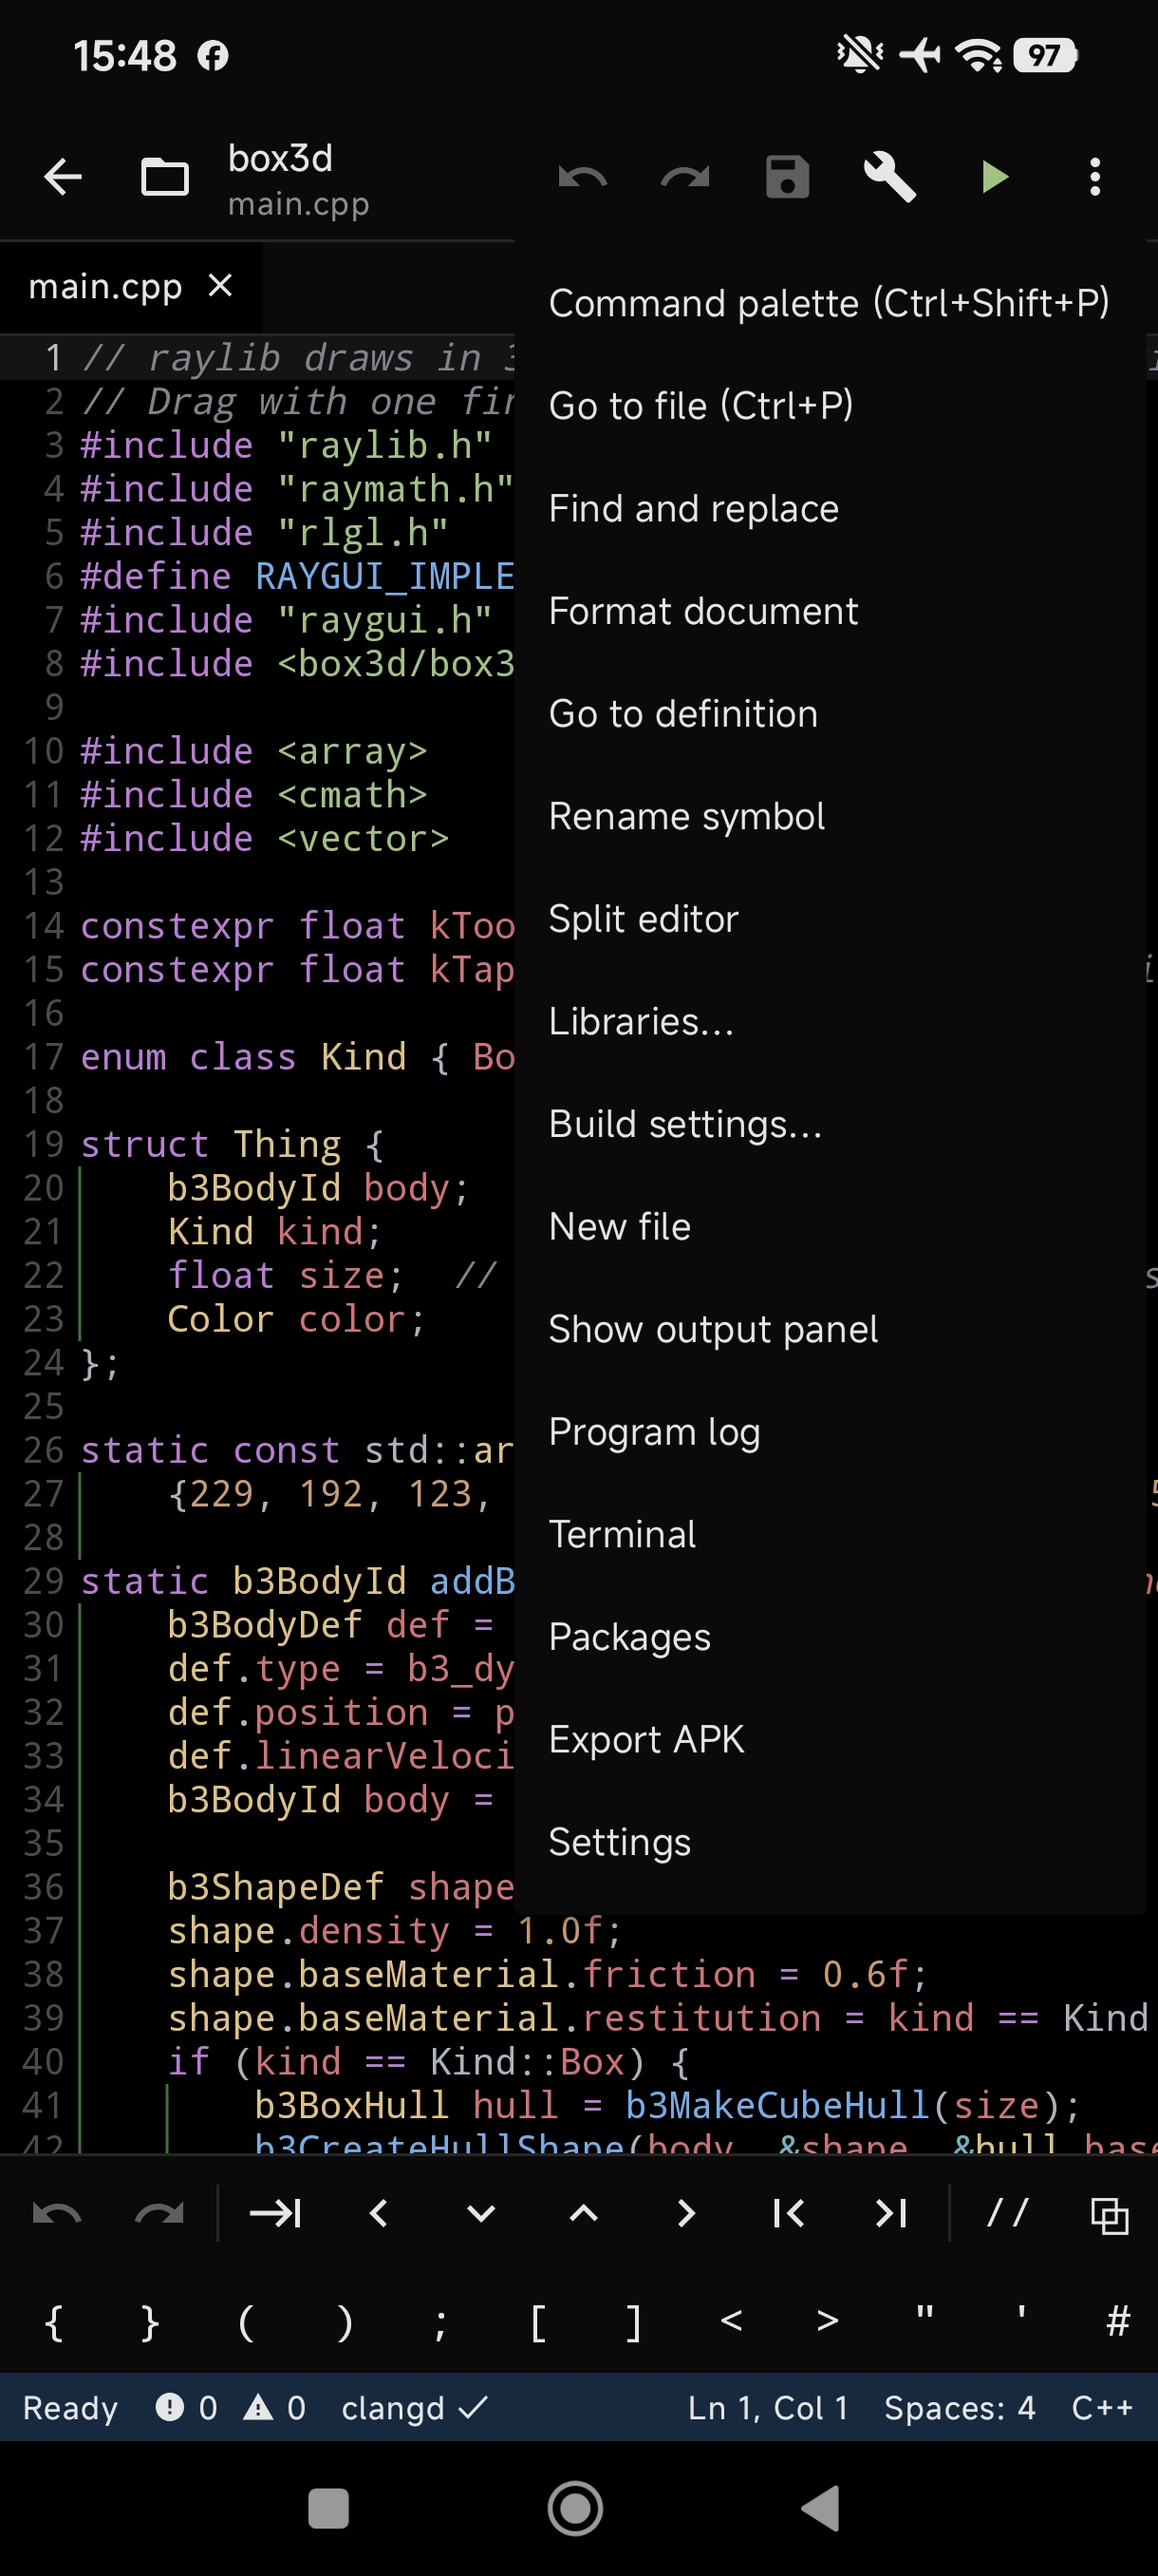
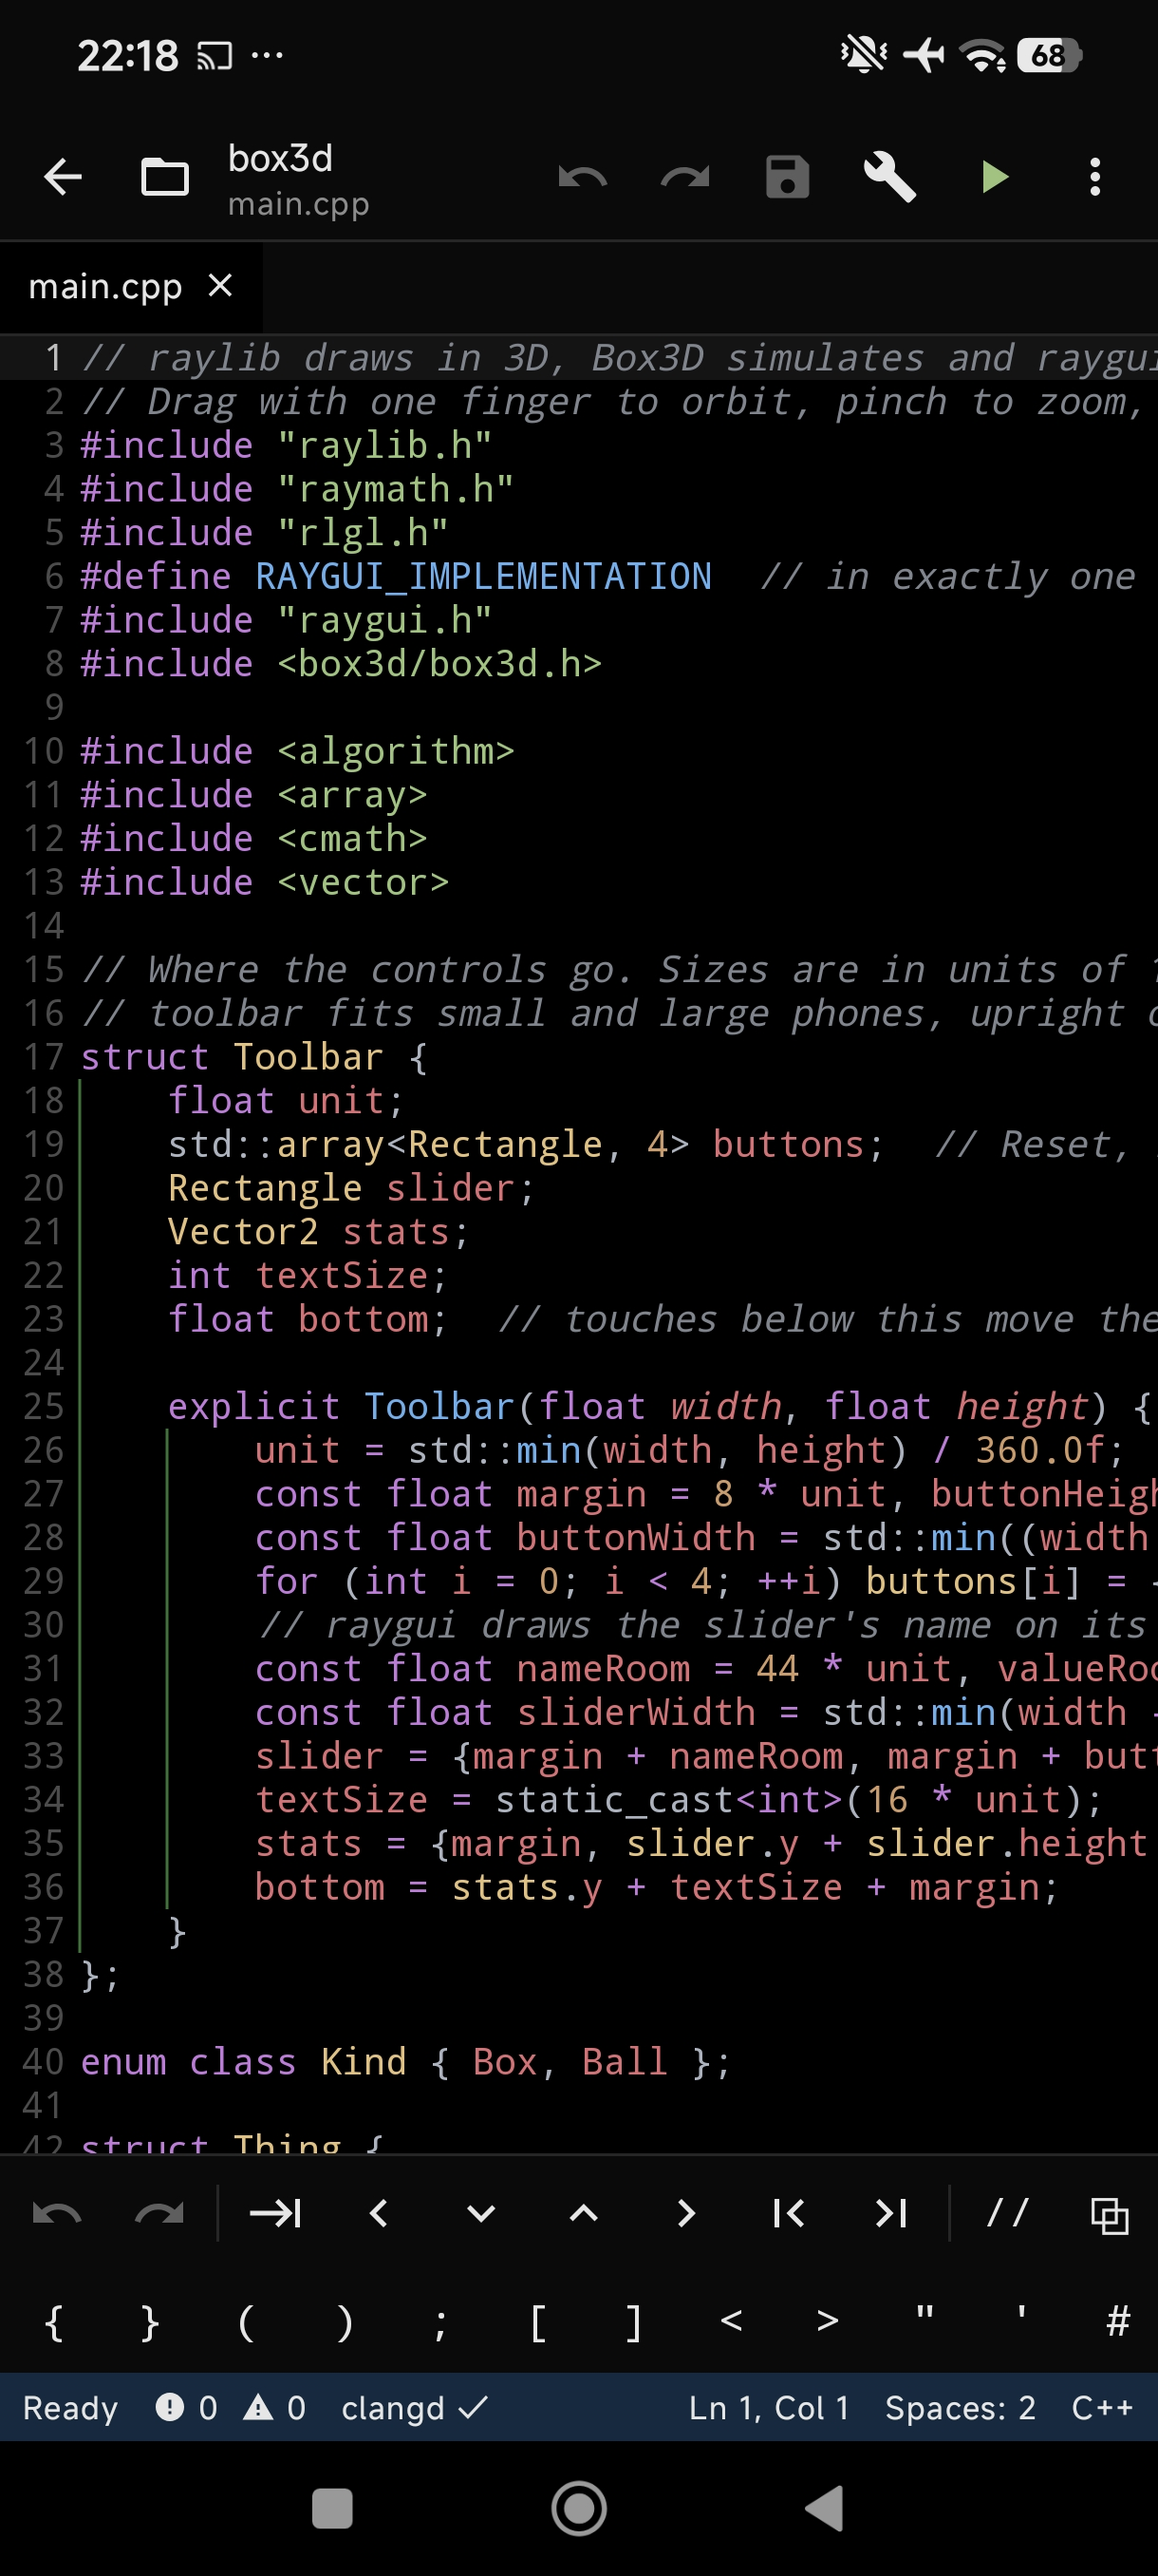
Replace README and F-Droid screenshots with new captures
Nine new phone captures (editor, projects, new project, project
libraries, packages, 3D model viewer, export) replace the eight old
ones in fastlane phoneScreenshots, and two captures of the remote IDE
in a computer's browser go to docs/screenshots/. EXIF was removed
losslessly from the JPEGs (ICC profile kept); the PNGs were re-saved
without text chunks and with the browser's address bar cropped off.
The README screenshots are now grouped by section.

Claude-Session: https://claude.ai/code/session_01WKkJcpgvgDKXtT1q173SPL

diff --git a/README.md b/README.md
@@ -14,17 +14,40 @@ touch screen or with a physical keyboard and mouse, using VS Code shortcuts.
 
 ## Screenshots
 
+### Editor and projects
+
 <p align="center">
-  <img src="fastlane/metadata/android/en-US/images/phoneScreenshots/1_editor.jpg" width="200" alt="Editor with the command palette">
-  <img src="fastlane/metadata/android/en-US/images/phoneScreenshots/2_physics_3d.jpg" width="200" alt="3D physics example (raylib + Box3D)">
-  <img src="fastlane/metadata/android/en-US/images/phoneScreenshots/3_new_project.jpg" width="200" alt="New project: templates">
-  <img src="fastlane/metadata/android/en-US/images/phoneScreenshots/4_examples.jpg" width="200" alt="Example projects and build options">
+  <img src="fastlane/metadata/android/en-US/images/phoneScreenshots/1_editor.jpg" width="200" alt="Editor with clangd, shortcut and symbol bars">
+  <img src="fastlane/metadata/android/en-US/images/phoneScreenshots/2_projects.jpg" width="200" alt="Recent projects with language, build system and libraries">
+  <img src="fastlane/metadata/android/en-US/images/phoneScreenshots/3_new_project.jpg" width="200" alt="New project: console and graphics templates">
+  <img src="fastlane/metadata/android/en-US/images/phoneScreenshots/4_new_project_options.jpg" width="200" alt="New project: examples, language, standard and build system">
+</p>
+
+### Libraries and assets
+
+<p align="center">
+  <img src="fastlane/metadata/android/en-US/images/phoneScreenshots/5_project_libraries.jpg" width="200" alt="Project libraries: link any number of libraries">
+  <img src="fastlane/metadata/android/en-US/images/phoneScreenshots/6_packages.jpg" width="200" alt="Packages: Android and Termux libraries">
+  <img src="fastlane/metadata/android/en-US/images/phoneScreenshots/7_model_viewer.jpg" width="200" alt="Asset viewer: glTF 3D model preview">
+</p>
+
+### Export
+
+<p align="center">
+  <img src="fastlane/metadata/android/en-US/images/phoneScreenshots/8_export.jpg" width="200" alt="Export: app name, package id, version, icon and display">
+  <img src="fastlane/metadata/android/en-US/images/phoneScreenshots/9_export_signing.jpg" width="200" alt="Export: permissions, APK or App Bundle, signing key and WebAssembly">
+</p>
+
+### Remote access from a computer's browser
+
+The same IDE on a computer, connected to the phone over Wi-Fi: editor, explorer
+and build output, with the graphical program streamed from the phone.
+
+<p align="center">
+  <img src="docs/screenshots/remote-particles.png" width="100%" alt="Particles example (raylib + EnTT) running from the browser">
 </p>
 <p align="center">
-  <img src="fastlane/metadata/android/en-US/images/phoneScreenshots/5_export_apk.jpg" width="200" alt="Export as APK or App Bundle">
-  <img src="fastlane/metadata/android/en-US/images/phoneScreenshots/6_packages.jpg" width="200" alt="Packages">
-  <img src="fastlane/metadata/android/en-US/images/phoneScreenshots/7_themes.jpg" width="200" alt="App and editor themes">
-  <img src="fastlane/metadata/android/en-US/images/phoneScreenshots/8_settings.jpg" width="200" alt="Settings">
+  <img src="docs/screenshots/remote-box3d.png" width="100%" alt="3D physics example (raylib + Box3D) running from the browser">
 </p>
 
 ## Features

diff --git a/fastlane/metadata/SCREENSHOTS.md b/fastlane/metadata/SCREENSHOTS.md
@@ -6,14 +6,19 @@ shown in the README.
 
 | File | Shows |
 | --- | --- |
-| `1_editor.jpg` | Editor with the command palette |
-| `2_physics_3d.jpg` | 3D physics example (raylib + Box3D) |
-| `3_new_project.jpg` | New project: templates |
-| `4_examples.jpg` | Example projects and build options |
-| `5_export_apk.jpg` | Export as APK or App Bundle |
-| `6_packages.jpg` | Packages |
-| `7_themes.jpg` | App and editor themes |
-| `8_settings.jpg` | Settings |
+| `1_editor.jpg` | Editor with clangd, shortcut and symbol bars |
+| `2_projects.jpg` | Recent projects with language, build system and libraries |
+| `3_new_project.jpg` | New project: console and graphics templates |
+| `4_new_project_options.jpg` | New project: examples, language, standard and build system |
+| `5_project_libraries.jpg` | Project libraries |
+| `6_packages.jpg` | Packages: Android and Termux libraries |
+| `7_model_viewer.jpg` | Asset viewer: glTF 3D model preview |
+| `8_export.jpg` | Export: app name, package id, version, icon and display |
+| `9_export_signing.jpg` | Export: permissions, APK or App Bundle, signing key and WebAssembly |
+
+The README also shows two captures of the remote IDE in a computer's browser, kept in
+`docs/screenshots/` because F-Droid expects phone captures here. Crop the browser's
+address bar from those so no local IP address is published.
 
 Before adding a capture, remove its metadata (EXIF: date, device and Android build) and
 check that it shows no personal data. A lossless way for JPEG files:
@@ -22,6 +27,6 @@ check that it shows no personal data. A lossless way for JPEG files:
 exiftool -all= -tagsfromfile @ -icc_profile -overwrite_original capture.jpg
 ```
 
-Useful additions: a graphical program running full screen (SDL3 or Vulkan), clangd
-completion and live errors in the editor, the asset viewer with a 3D model, and tablet
-captures of the split editor in `tenInchScreenshots/`.
+Useful additions: a graphical program running full screen on the phone (SDL3 or
+Vulkan), clangd completion and live errors in the editor, and tablet captures of the
+split editor in `tenInchScreenshots/`.

diff --git a/docs/FDROID.md b/docs/FDROID.md
@@ -62,9 +62,9 @@ repository, and how to submit. Policy references are from the
    have to uninstall first. Reproducible builds would let F-Droid ship the
    developer's signature instead; `libs-from-source.yml` reports how many
    rebuilt archives are byte-for-byte identical to the committed ones.
-7. **Screenshots.** Eight phone screenshots are in
+7. **Screenshots.** Nine phone screenshots are in
    `fastlane/metadata/android/en-US/images/phoneScreenshots/` (F-Droid uses
-   them for every language without its own). See `fastlane/SCREENSHOTS.md`.
+   them for every language without its own). See `fastlane/metadata/SCREENSHOTS.md`.
 
 ## Anti-features
 
